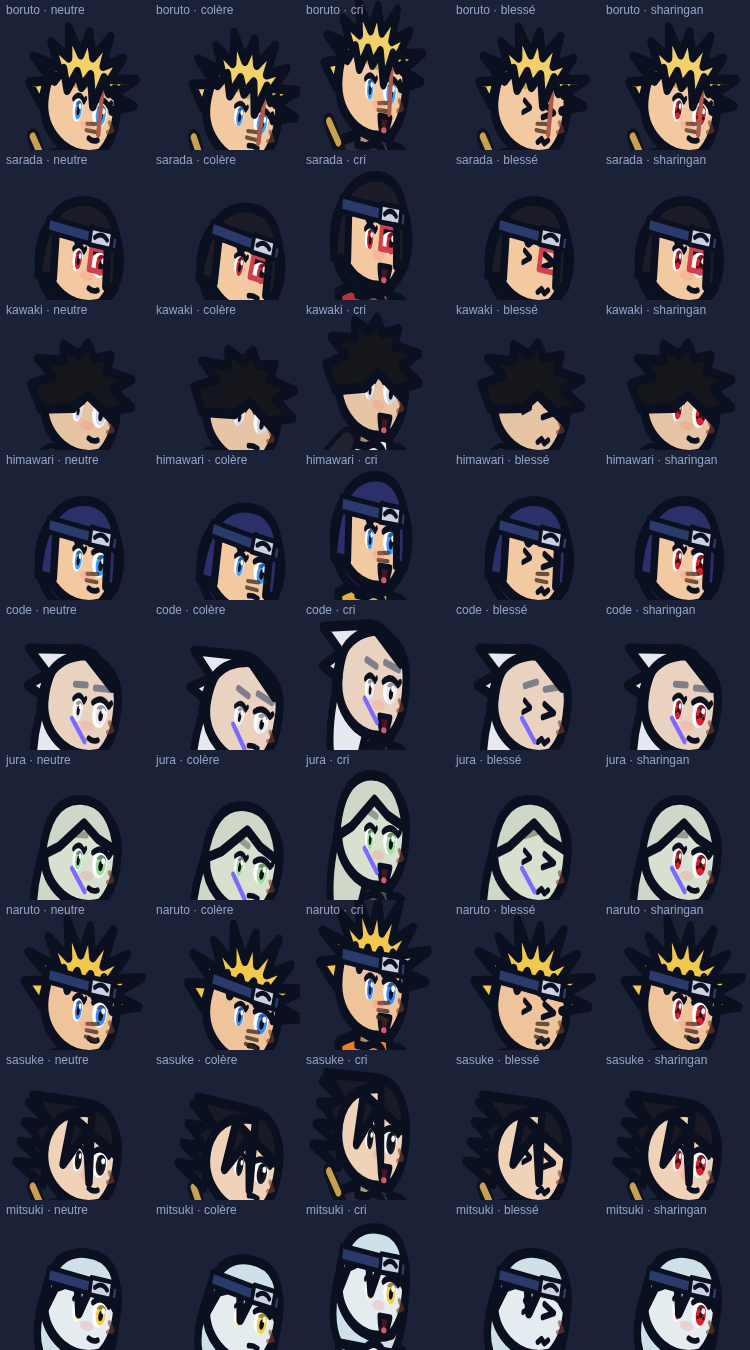
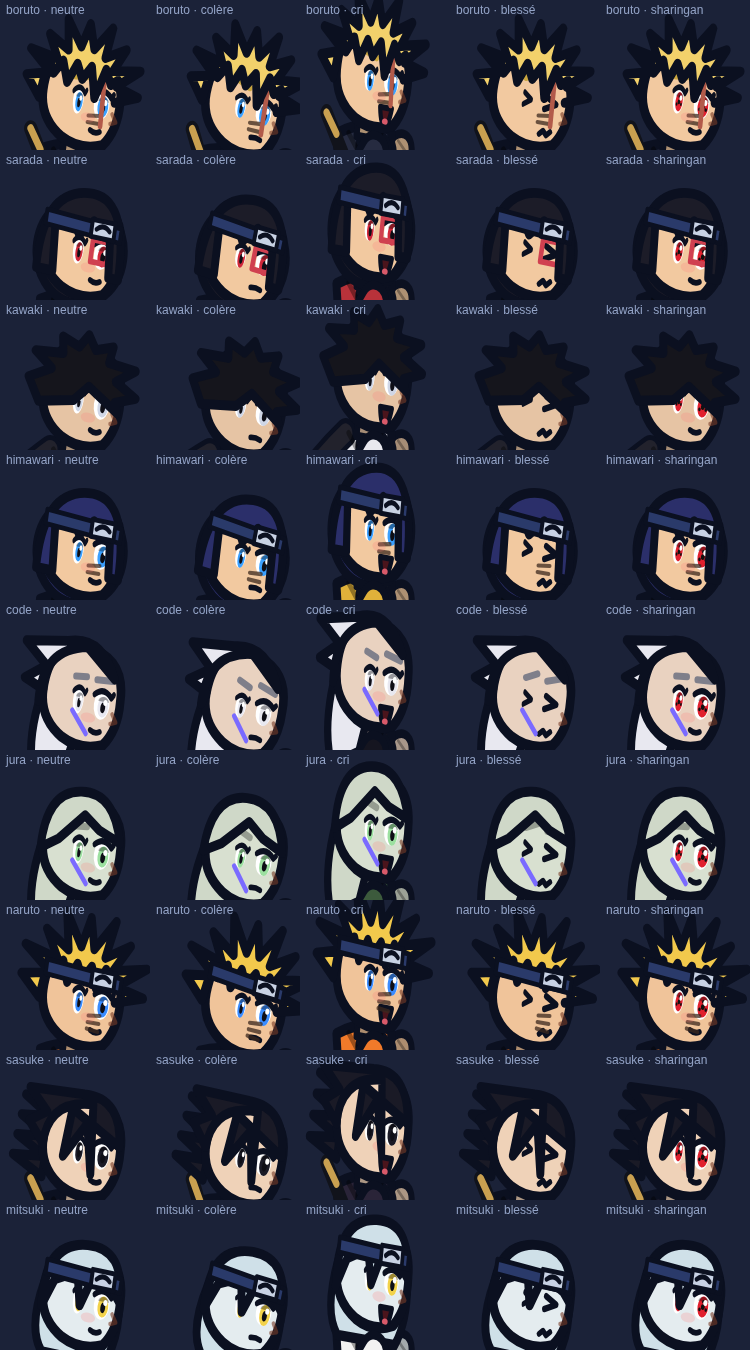
v0.10.9 rig proportions, hands, spring cloth

diff --git a/index.html b/index.html
@@ -104,7 +104,7 @@ button.b.p{background:var(--gold);color:var(--ink)}button.b.p2{background:var(--
 <script>
 'use strict';
 /* ============ Noyau : réglages, sauvegarde, entrées, audio ============ */
-const VERSION = '0.10.8';
+const VERSION = '0.10.9';
 const K10 = Math.sqrt(10); // v0.9.7 : échelle des cartes extérieures (surface ×10)
 const $ = (s) => document.querySelector(s);
 const TAU = Math.PI * 2, clamp = (v, a, b) => (v < a ? a : v > b ? b : v), lerp = (a, b, t) => a + (b - a) * t;
@@ -559,13 +559,13 @@ function drawRig(g, u, tint) { const L = lookOf(u); const P = u.P || poseOf(u); 
   const limb = (x, y, a1, a2, l1, l2, w, c, end, endC) => { const kx = x + Math.sin(a1) * l1, ky = y + Math.cos(a1) * l1, fx = kx + Math.sin(a1 + a2) * l2, fy = ky + Math.cos(a1 + a2) * l2; g.lineCap = 'round'; g.lineJoin = 'round';
     if (!tint) { g.strokeStyle = ink; g.lineWidth = w + 4; g.beginPath(); g.moveTo(x, y); g.lineTo(kx, ky); g.lineTo(fx, fy); g.stroke(); }
     g.strokeStyle = C(c); g.lineWidth = w; g.beginPath(); g.moveTo(x, y); g.lineTo(kx, ky); g.lineTo(fx, fy); g.stroke();
-    if (end === 'fist') { g.fillStyle = C(endC); g.strokeStyle = ink; g.lineWidth = 2.2; g.beginPath(); g.arc(fx, fy, 4.4, 0, TAU); g.fill(); if (!tint) g.stroke(); }
+    if (end === 'fist') { const ha = a1 + a2; g.save(); g.translate(fx, fy); g.rotate(-ha); g.fillStyle = C(endC); g.strokeStyle = ink; g.lineWidth = 2; g.beginPath(); g.ellipse(0, 1.2, 3.9, 4.8, 0, 0, TAU); g.fill(); if (!tint) g.stroke(); g.beginPath(); g.ellipse(2.8, -0.6, 1.6, 2.4, -0.5, 0, TAU); g.fill(); if (!tint) g.stroke(); if (!tint) { g.strokeStyle = 'rgba(0,0,0,.3)'; g.lineWidth = 0.8; g.beginPath(); g.moveTo(-2.6, 2.6); g.lineTo(1.8, 3.4); g.stroke(); } g.restore(); }
     else if (end === 'foot') { g.fillStyle = C('#20222e'); g.strokeStyle = ink; g.lineWidth = 2; g.beginPath(); g.ellipse(fx + 3, fy, 6, 3.2, a1 + a2 - 0.3, 0, TAU); g.fill(); if (!tint) g.stroke(); }
     return [fx, fy]; };
-  const hipY = -31, legW = kid ? 6 : 7.5, armW = kid ? 5 : 6.2;
-  limb(-3, hipY, P.hB, P.kB, 15, 15, legW, shade(L.bot), 'foot');
+  const hipY = -33, legW = kid ? 6 : 7.5, armW = kid ? 5 : 6.2;
+  limb(-3, hipY, P.hB, P.kB, 16, 16, legW, shade(L.bot), 'foot');
   // cape / écharpe derrière (traînée selon la vitesse)
-  const vel = Math.min(1, Math.hypot(u.vx || 0, u.vy || 0) / 400), wav = Math.sin((u.anim || 0) * 1.3);
+  const vel = Math.min(1, Math.hypot(u.vx || 0, u.vy || 0) / 400 + Math.abs((u.spr10 && u.spr10.x) || 0) / 14), wav = Math.sin((u.anim || 0) * 1.3) + ((u.spr10 && u.spr10.v) || 0) * 0.04;
   g.save(); g.translate(0, hipY); g.rotate(P.lean);
   if (L.cloak) { g.fillStyle = C(L.cloak); g.strokeStyle = ink; g.lineWidth = 2.4; g.beginPath(); g.moveTo(-8, -27); g.quadraticCurveTo(-16 - vel * 16, -6, -14 - vel * 24 + wav * 3, 22 - vel * 10); g.lineTo(-4 - vel * 10, 24 - vel * 6 + wav * 2); g.lineTo(6, 8); g.lineTo(8, -27); g.closePath(); g.fill(); if (!tint) g.stroke(); }
   const shoulder = (back) => [back ? -3 : 3, -24];
@@ -580,10 +580,11 @@ function drawRig(g, u, tint) { const L = lookOf(u); const P = u.P || poseOf(u); 
   if (L.sword && !tint) { g.strokeStyle = '#11131b'; g.lineWidth = 4; g.beginPath(); g.moveTo(-12, -34); g.lineTo(7, 4); g.stroke(); g.strokeStyle = '#c9a050'; g.lineWidth = 2; g.beginPath(); g.moveTo(-12, -34); g.lineTo(-9, -29); g.stroke(); }
   if (L.marks && !tint) { g.strokeStyle = '#7a6aff'; g.lineWidth = 1.6; for (let i = 0; i < 3; i++) { g.beginPath(); g.moveTo(-5 + i * 4, -24); g.lineTo(-1 + i * 4, -9); g.stroke(); } }
   if (L.scarf && !tint) { g.strokeStyle = INK; g.lineWidth = 7; g.beginPath(); g.moveTo(-6, -29); g.quadraticCurveTo(-14 - vel * 18, -27 + wav * 3, -22 - vel * 22, -22 + wav * 5); g.stroke(); g.strokeStyle = L.scarf; g.lineWidth = 4.5; g.stroke(); }
+  if (!tint) { g.fillStyle = C(shade(L.top)); g.strokeStyle = ink; g.lineWidth = 2; g.beginPath(); g.ellipse(3, -25, 5, 4, 0.3, 0, TAU); g.fill(); g.stroke(); g.strokeStyle = 'rgba(0,0,0,.35)'; g.lineWidth = 1.4; g.beginPath(); g.moveTo(-5, -29); g.lineTo(1, -20); g.lineTo(6, -29); g.stroke(); g.fillStyle = '#20222e'; g.fillRect(-bw + 2, -6, bw * 2 - 4, 3); }
   // tête (grosse, lisible) — légère traînée de rotation
   g.save(); g.translate(1.5, -32); g.rotate(P.head - P.lean * 0.35); drawHead(g, u, L, C, ink, tint, kid, vel, wav, P); g.restore();
   const [sfx, sfy] = shoulder(0); const hf = limb(sfx, sfy, P.aF, P.eF, 12, 11, armW, L.top, 'fist', L.skin); g.restore();
-  limb(3, hipY, P.hF, P.kF, 15, 15, legW, L.bot, 'foot');
+  limb(3, hipY, P.hF, P.kF, 16, 16, legW, L.bot, 'foot');
   g.restore();
   // position monde de la main avant (pour les VFX tenus en main)
   const lx = 3 + Math.sin(P.aF) * 12 + Math.sin(P.aF + P.eF) * 11, ly = -24 + Math.cos(P.aF) * 12 + Math.cos(P.aF + P.eF) * 11; const cl = Math.cos(P.lean), sl = Math.sin(P.lean);
@@ -4017,7 +4018,7 @@ addEventListener('touchstart',()=>document.body.classList.add('touch07'),{passiv
     const Q = Object.assign({}, P); Q.head = (P.head || 0) - vz * 0.28; if (act) { Q.aF = P.aF + vz * 0.85; Q.lean = P.lean - vz * 0.12; } return Q; };
   // rendu : rotation du corps + vue de dos
   const dr = drawRig; drawRig = function (g, u, tint) { if (!u || u.hd == null || u.big || u.bj) return dr(g, u, tint); const vz = -Math.sin(u.hd), az = Math.abs(vz); if (az < 0.2) return dr(g, u, tint);
-    const k = 1 - 0.34 * Math.min(1, (az - 0.2) / 0.6); u._back = !tint && vz > 0.45 ? Math.min(1, (vz - 0.45) / 0.3) : 0; g.save(); g.translate(u.x, u.y); g.scale(k, 1); g.translate(-u.x, -u.y); dr(g, u, tint); g.restore(); u._back = 0; if (u.hand) u.hand.x = u.x + (u.hand.x - u.x) * k;
+    const k = 1 - 0.16 * Math.sin(Math.PI * Math.min(1, az)); u._back = !tint && vz > 0.45 ? Math.min(1, (vz - 0.45) / 0.3) : 0; g.save(); g.translate(u.x, u.y); g.scale(k, 1); g.translate(-u.x, -u.y); dr(g, u, tint); g.restore(); u._back = 0; if (u.hand) u.hand.x = u.x + (u.hand.x - u.x) * k;
   };
   // vue de dos : la tête est recouverte par les cheveux (dans le repère de la tête, donc toujours bien placée)
   const dh = drawHead; drawHead = function (g, u, L, C, ink, tint, kid, vel, wav, P) { const r = dh.apply(this, arguments); const a = u && u._back; if (!a) return r; const R = kid ? 12.5 : 11.5, hy = -10;

diff --git a/src/50_actors.js b/src/50_actors.js
@@ -62,13 +62,13 @@ function drawRig(g, u, tint) { const L = lookOf(u); const P = u.P || poseOf(u); 
   const limb = (x, y, a1, a2, l1, l2, w, c, end, endC) => { const kx = x + Math.sin(a1) * l1, ky = y + Math.cos(a1) * l1, fx = kx + Math.sin(a1 + a2) * l2, fy = ky + Math.cos(a1 + a2) * l2; g.lineCap = 'round'; g.lineJoin = 'round';
     if (!tint) { g.strokeStyle = ink; g.lineWidth = w + 4; g.beginPath(); g.moveTo(x, y); g.lineTo(kx, ky); g.lineTo(fx, fy); g.stroke(); }
     g.strokeStyle = C(c); g.lineWidth = w; g.beginPath(); g.moveTo(x, y); g.lineTo(kx, ky); g.lineTo(fx, fy); g.stroke();
-    if (end === 'fist') { g.fillStyle = C(endC); g.strokeStyle = ink; g.lineWidth = 2.2; g.beginPath(); g.arc(fx, fy, 4.4, 0, TAU); g.fill(); if (!tint) g.stroke(); }
+    if (end === 'fist') { const ha = a1 + a2; g.save(); g.translate(fx, fy); g.rotate(-ha); g.fillStyle = C(endC); g.strokeStyle = ink; g.lineWidth = 2; g.beginPath(); g.ellipse(0, 1.2, 3.9, 4.8, 0, 0, TAU); g.fill(); if (!tint) g.stroke(); g.beginPath(); g.ellipse(2.8, -0.6, 1.6, 2.4, -0.5, 0, TAU); g.fill(); if (!tint) g.stroke(); if (!tint) { g.strokeStyle = 'rgba(0,0,0,.3)'; g.lineWidth = 0.8; g.beginPath(); g.moveTo(-2.6, 2.6); g.lineTo(1.8, 3.4); g.stroke(); } g.restore(); }
     else if (end === 'foot') { g.fillStyle = C('#20222e'); g.strokeStyle = ink; g.lineWidth = 2; g.beginPath(); g.ellipse(fx + 3, fy, 6, 3.2, a1 + a2 - 0.3, 0, TAU); g.fill(); if (!tint) g.stroke(); }
     return [fx, fy]; };
-  const hipY = -31, legW = kid ? 6 : 7.5, armW = kid ? 5 : 6.2;
-  limb(-3, hipY, P.hB, P.kB, 15, 15, legW, shade(L.bot), 'foot');
+  const hipY = -33, legW = kid ? 6 : 7.5, armW = kid ? 5 : 6.2;
+  limb(-3, hipY, P.hB, P.kB, 16, 16, legW, shade(L.bot), 'foot');
   // cape / écharpe derrière (traînée selon la vitesse)
-  const vel = Math.min(1, Math.hypot(u.vx || 0, u.vy || 0) / 400), wav = Math.sin((u.anim || 0) * 1.3);
+  const vel = Math.min(1, Math.hypot(u.vx || 0, u.vy || 0) / 400 + Math.abs((u.spr10 && u.spr10.x) || 0) / 14), wav = Math.sin((u.anim || 0) * 1.3) + ((u.spr10 && u.spr10.v) || 0) * 0.04;
   g.save(); g.translate(0, hipY); g.rotate(P.lean);
   if (L.cloak) { g.fillStyle = C(L.cloak); g.strokeStyle = ink; g.lineWidth = 2.4; g.beginPath(); g.moveTo(-8, -27); g.quadraticCurveTo(-16 - vel * 16, -6, -14 - vel * 24 + wav * 3, 22 - vel * 10); g.lineTo(-4 - vel * 10, 24 - vel * 6 + wav * 2); g.lineTo(6, 8); g.lineTo(8, -27); g.closePath(); g.fill(); if (!tint) g.stroke(); }
   const shoulder = (back) => [back ? -3 : 3, -24];
@@ -83,10 +83,11 @@ function drawRig(g, u, tint) { const L = lookOf(u); const P = u.P || poseOf(u); 
   if (L.sword && !tint) { g.strokeStyle = '#11131b'; g.lineWidth = 4; g.beginPath(); g.moveTo(-12, -34); g.lineTo(7, 4); g.stroke(); g.strokeStyle = '#c9a050'; g.lineWidth = 2; g.beginPath(); g.moveTo(-12, -34); g.lineTo(-9, -29); g.stroke(); }
   if (L.marks && !tint) { g.strokeStyle = '#7a6aff'; g.lineWidth = 1.6; for (let i = 0; i < 3; i++) { g.beginPath(); g.moveTo(-5 + i * 4, -24); g.lineTo(-1 + i * 4, -9); g.stroke(); } }
   if (L.scarf && !tint) { g.strokeStyle = INK; g.lineWidth = 7; g.beginPath(); g.moveTo(-6, -29); g.quadraticCurveTo(-14 - vel * 18, -27 + wav * 3, -22 - vel * 22, -22 + wav * 5); g.stroke(); g.strokeStyle = L.scarf; g.lineWidth = 4.5; g.stroke(); }
+  if (!tint) { g.fillStyle = C(shade(L.top)); g.strokeStyle = ink; g.lineWidth = 2; g.beginPath(); g.ellipse(3, -25, 5, 4, 0.3, 0, TAU); g.fill(); g.stroke(); g.strokeStyle = 'rgba(0,0,0,.35)'; g.lineWidth = 1.4; g.beginPath(); g.moveTo(-5, -29); g.lineTo(1, -20); g.lineTo(6, -29); g.stroke(); g.fillStyle = '#20222e'; g.fillRect(-bw + 2, -6, bw * 2 - 4, 3); }
   // tête (grosse, lisible) — légère traînée de rotation
   g.save(); g.translate(1.5, -32); g.rotate(P.head - P.lean * 0.35); drawHead(g, u, L, C, ink, tint, kid, vel, wav, P); g.restore();
   const [sfx, sfy] = shoulder(0); const hf = limb(sfx, sfy, P.aF, P.eF, 12, 11, armW, L.top, 'fist', L.skin); g.restore();
-  limb(3, hipY, P.hF, P.kF, 15, 15, legW, L.bot, 'foot');
+  limb(3, hipY, P.hF, P.kF, 16, 16, legW, L.bot, 'foot');
   g.restore();
   // position monde de la main avant (pour les VFX tenus en main)
   const lx = 3 + Math.sin(P.aF) * 12 + Math.sin(P.aF + P.eF) * 11, ly = -24 + Math.cos(P.aF) * 12 + Math.cos(P.aF + P.eF) * 11; const cl = Math.cos(P.lean), sl = Math.sin(P.lean);

diff --git a/src/8z3_dir10.js b/src/8z3_dir10.js
@@ -21,7 +21,7 @@
     const Q = Object.assign({}, P); Q.head = (P.head || 0) - vz * 0.28; if (act) { Q.aF = P.aF + vz * 0.85; Q.lean = P.lean - vz * 0.12; } return Q; };
   // rendu : rotation du corps + vue de dos
   const dr = drawRig; drawRig = function (g, u, tint) { if (!u || u.hd == null || u.big || u.bj) return dr(g, u, tint); const vz = -Math.sin(u.hd), az = Math.abs(vz); if (az < 0.2) return dr(g, u, tint);
-    const k = 1 - 0.34 * Math.min(1, (az - 0.2) / 0.6); u._back = !tint && vz > 0.45 ? Math.min(1, (vz - 0.45) / 0.3) : 0; g.save(); g.translate(u.x, u.y); g.scale(k, 1); g.translate(-u.x, -u.y); dr(g, u, tint); g.restore(); u._back = 0; if (u.hand) u.hand.x = u.x + (u.hand.x - u.x) * k;
+    const k = 1 - 0.16 * Math.sin(Math.PI * Math.min(1, az)); u._back = !tint && vz > 0.45 ? Math.min(1, (vz - 0.45) / 0.3) : 0; g.save(); g.translate(u.x, u.y); g.scale(k, 1); g.translate(-u.x, -u.y); dr(g, u, tint); g.restore(); u._back = 0; if (u.hand) u.hand.x = u.x + (u.hand.x - u.x) * k;
   };
   // vue de dos : la tête est recouverte par les cheveux (dans le repère de la tête, donc toujours bien placée)
   const dh = drawHead; drawHead = function (g, u, L, C, ink, tint, kid, vel, wav, P) { const r = dh.apply(this, arguments); const a = u && u._back; if (!a) return r; const R = kid ? 12.5 : 11.5, hy = -10;

diff --git a/src/10_core.js b/src/10_core.js
@@ -1,6 +1,6 @@
 'use strict';
 /* ============ Noyau : réglages, sauvegarde, entrées, audio ============ */
-const VERSION = '0.10.8';
+const VERSION = '0.10.9';
 const K10 = Math.sqrt(10); // v0.9.7 : échelle des cartes extérieures (surface ×10)
 const $ = (s) => document.querySelector(s);
 const TAU = Math.PI * 2, clamp = (v, a, b) => (v < a ? a : v > b ? b : v), lerp = (a, b, t) => a + (b - a) * t;

diff --git a/PATCH_NOTES.md b/PATCH_NOTES.md
@@ -1,3 +1,7 @@
+## v0.10.9
+- Rig : jambes plus longues, épaules, col de veste, ceinture, vraies mains (paume + pouce), cape/écharpe à ressort.
+- Vue de face et de dos à pleine largeur (seuls les ¾ sont compressés).
+
 ## v0.10.8
 - Visages anime : yeux (iris, reflets, cils), sourcils, nez, bouche, expressions (neutre, colère, cri, blessé, clignement), dōjutsu dans l’œil (Sharingan, Byakugan, Jōgan).
 - Coupes canon (Boruto, Sarada, Kawaki, Himawari, Code, Naruto, Sasuke, Mitsuki), moustaches Uzumaki, vraie vue de face, ¾ et de dos.
